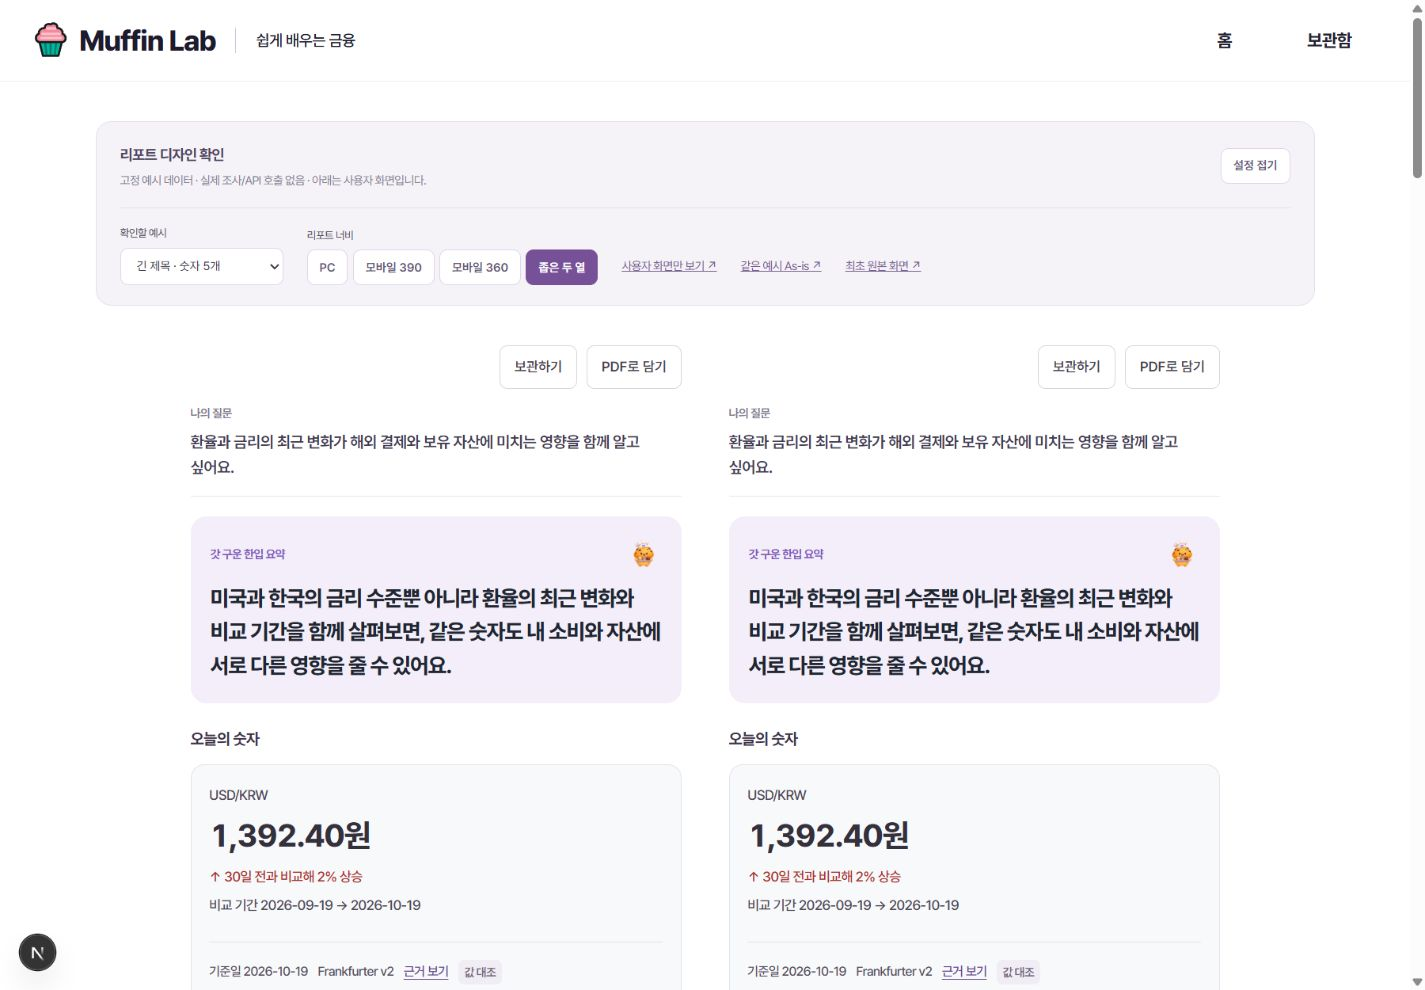
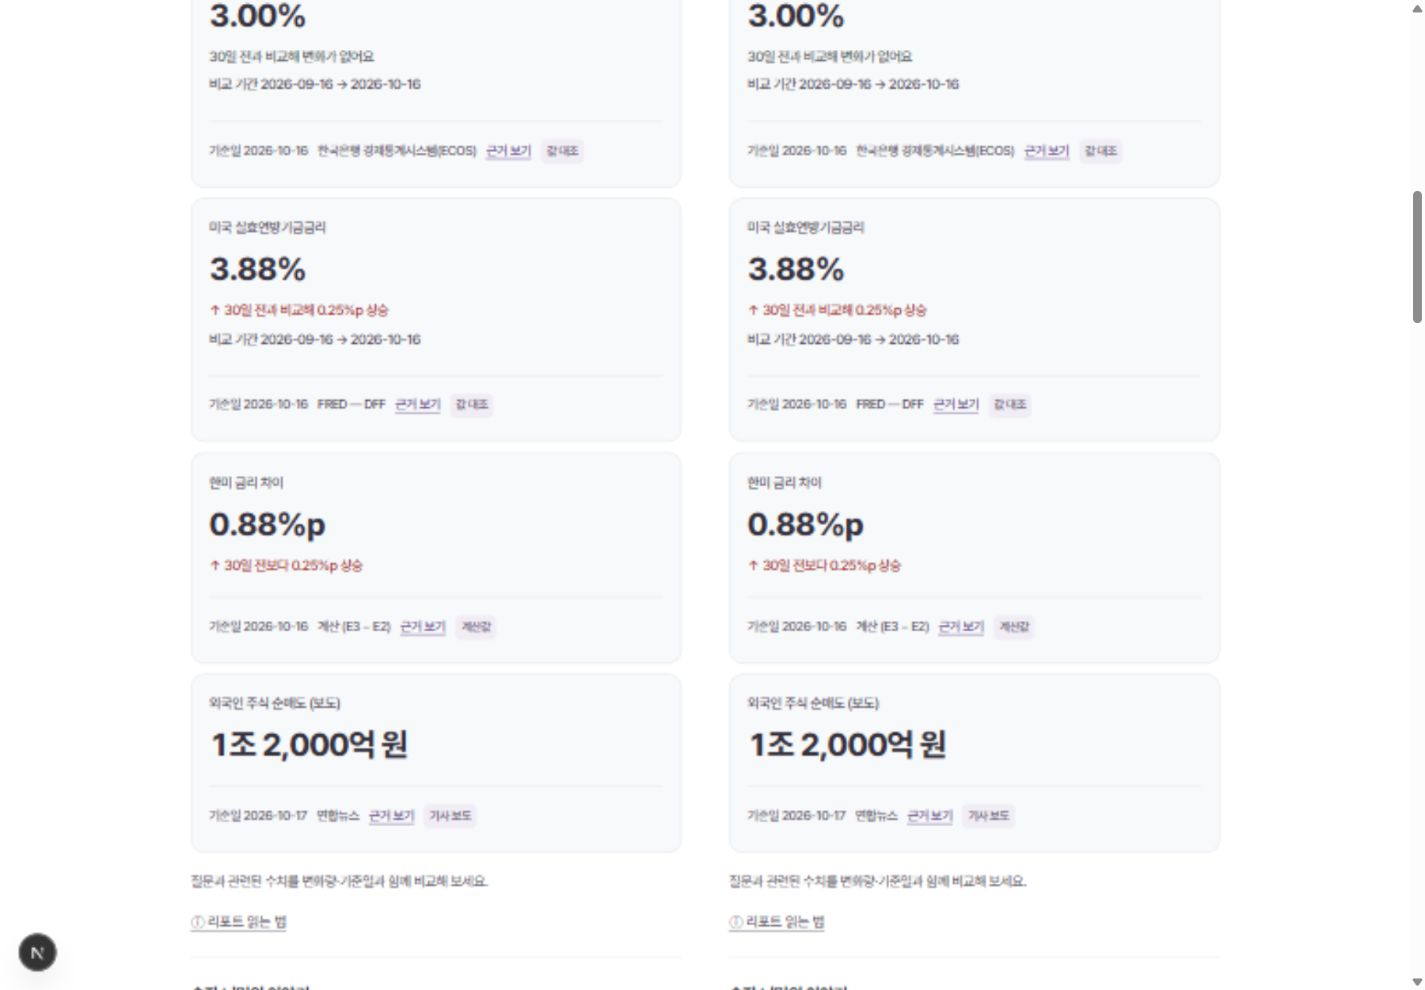
fix: 리포트 머리말 복원 및 모바일 보조 영역 접기

diff --git a/app/components/ReportView.module.css b/app/components/ReportView.module.css
@@ -545,3 +545,39 @@
   .report .topicLink { flex-wrap:wrap; }
   .report :global(.topic-action) { width:100%; margin-top:12px; }
 }
+
+/* Brand and supporting content: compact surfaces, responsive disclosure. */
+.report :global(.report-brand-header) { display:flex; align-items:center; justify-content:space-between; flex-wrap:wrap; gap:16px; margin-bottom:24px; }
+.report :global(.report-brand-header) p { margin:0 0 4px; font-size:13px; color:#705886; }
+.report :global(.report-brand-header) h1 { margin:0; font-size:26px; line-height:1.2; color:#3f2c55; }
+.report :global(.report-brand-header .report-actions) { margin:0; }
+.report section.hero { grid-template-columns:minmax(0,1fr) 200px; }
+.report .heroArt { width:200px; height:180px; }
+.report :global(.metrics-heading) h2 { font-size:19px; }
+.report :global(.source-chips) { margin:10px 0 14px; padding:0; border:0; gap:6px; }
+.report :global(.source-chips) button { padding:6px 14px; min-height:40px; }
+.report :global(.source-panel-heading) { margin-bottom:10px; }
+.report :global(.source-data-grid) { gap:12px; }
+.report :global(.source-data-item) { padding:16px; border:1px solid #e1e4e9; border-radius:12px; background:#f8f9fb; }
+.report :global(.source-number) { margin-bottom:8px; gap:4px; }
+.report :global(.evidence-record) { margin:0; padding:0; }
+.report :global(.evidence-values) { margin:8px 0 0; }
+.report :global(.evidence-values) > div { background:transparent; }
+.report :global(.report-verification:not(.report-reference)) { padding:0 18px; background:#f1f3f6; border:1px solid #e0e4e9; border-radius:14px; margin:16px 0; }
+.report :global(.responsive-details > summary) { list-style:none; cursor:default; }
+.report :global(.responsive-details > summary::-webkit-details-marker) { display:none; }
+.report :global(.responsive-details > summary) h2 { margin:0; font-size:19px; }
+.report :global(.responsive-details .verification-summary-action) { display:none; }
+@container report (max-width:560px) {
+  .report :global(.report-brand-header) { align-items:flex-start; }
+  .report :global(.report-brand-header .report-actions) { width:100%; }
+  .report .heroArt { width:160px; height:144px; }
+  .report .headlinePlaceholder { font-size:20px; }
+  .report :global(.metrics-heading) h2, .report :global(.responsive-details > summary) h2 { font-size:17px; }
+}
+@media (max-width:600px) {
+  .report :global(.responsive-details > summary) { cursor:pointer; display:flex; align-items:center; justify-content:space-between; gap:10px; }
+  .report :global(.responsive-details > summary)::after { content:"⌄"; font-size:20px; }
+  .report :global(.responsive-details[open] > summary)::after { transform:rotate(180deg); }
+  .report :global(.responsive-details.report-fold) { padding:0; }
+}

diff --git a/app/components/ReportView.tsx b/app/components/ReportView.tsx
@@ -1,3 +1,4 @@
+import { ReportResponsiveDetails } from "./ReportResponsiveDetails";
 /// <reference types="next/image-types/global" />
 import { supportedReportTopics } from "@/src/lib/report-topics";
 import type { ReactNode } from "react";
@@ -62,7 +63,7 @@ export function ReportView({
     <ReportEvidenceScope>
     <ReportDisplay className={`report ${styles.report}`}>
       {report.notice && report.mode !== "research" && <p className="report-notice">{report.notice}</p>}
-      {actions && <div className="report-actions">{actions}</div>}
+      <header className="report-brand-header"><div><p>갓 구운 오늘의 리포트</p><h1>Today&apos;s Muffin</h1></div>{actions && <div className="report-actions">{actions}</div>}</header>
       {question && (
         <section className={styles.questionCard} aria-label="나의 질문">
           <h2>나의 질문</h2>
@@ -76,7 +77,7 @@ export function ReportView({
           {!headline && <p className={styles.summaryBody}>{report.summary}</p>}
         </div>
         <div className={styles.heroArt} aria-hidden="true">
-          <Image src={resultMuffin} alt="" fill sizes="(max-width: 560px) 160px, 120px" />
+          <Image src={resultMuffin} alt="" fill sizes="(max-width: 560px) 160px, 200px" />
         </div>
       </section>
 
@@ -129,7 +130,7 @@ export function ReportView({
                 ))}
               </ul>
             )}
-            <p className="section-guide">지금의 수치가 나온 배경을 읽고, 설명 옆 배지로 근거의 종류를 확인해 보세요.</p>
+
           </section>
       {headline && <p className={styles.summaryBody}>{report.summary}</p>}
 
@@ -154,10 +155,10 @@ export function ReportView({
       <ReportSources report={report} />
 
       {nextTopics.length > 0 && <section className={styles.nextTopics}>
-        <details className="report-fold" open><summary>이어서 알아볼까요?</summary>
+        <ReportResponsiveDetails className="report-fold" summary={<h2>이어서 알아볼까요?</h2>}>
         <div className={styles.topicGrid}>{nextTopics.map((topic, i) => <Link key={i} href={`/?question=${encodeURIComponent(topic.question)}&area=${topic.area}`} className={styles.topicLink}><span><strong>{topic.question}</strong><small>{topic.reason}</small></span><span className="topic-action"><em>머핀랩과 더 알아보기</em><span aria-hidden="true">→</span></span></Link>)}</div>
         <p className="section-guide">머핀랩이 추천하는 연관 지식이에요. 주제를 고르면 질문이 채워져요.</p>
-        </details>
+        </ReportResponsiveDetails>
       </section>}
 
       {header && <div className="report-bottom-controls">{header}</div>}

diff --git a/app/components/ReportEvidence.tsx b/app/components/ReportEvidence.tsx
@@ -1,5 +1,6 @@
 "use client";
 
+import { ReportResponsiveDetails } from "./ReportResponsiveDetails";
 import { useSyncExternalStore, type ReactNode } from "react";
 import type { Evidence, Report } from "@/src/agent/schema";
 import { ReportEvidenceLink, ReportSectionLink, useEvidenceTarget } from "./ReportEvidenceScope";
@@ -268,11 +269,10 @@ export function ReportVerification({ report, children }: { report: Report; child
   const labels = { skipped: "검사 미실행", partial: "일부 확인 필요", pass: "검사 통과" };
   return (
     <section className="report-verification" aria-label="리포트 검증 상태">
-      <details className="verification-toggle" aria-label="리포트 상세 정보">
-        <summary>
+      <ReportResponsiveDetails className="verification-toggle" label="리포트 상세 정보" summary={<>
           <span className="verification-summary-copy"><strong><span className="verification-icon" aria-hidden="true">✓</span> 검증이 한 일<span className={`report-badge status-${verification.status}`}>{labels[verification.status]}</span></strong><span>{skipped ? "검사를 실행하지 않은 리포트예요" : `숫자 대조 · 근거 분류 · 권유 표현 검사`}</span></span>
           <span className="verification-summary-action"><span className="verification-toggle-label">리포트 상세 정보</span><span className="verification-chevron" aria-hidden="true">⌄</span></span>
-        </summary>
+        </>}>
         <div className="verification-body">
       {skipped ? (
         <p>이 리포트는 검증기를 거치지 않았습니다. 숫자와 원인 설명을 출처에서 직접 확인해 주세요.</p>
@@ -286,7 +286,7 @@ export function ReportVerification({ report, children }: { report: Report; child
       )}
           {children}
         </div>
-      </details>
+      </ReportResponsiveDetails>
     </section>
   );
 }

diff --git a/app/components/ReportResponsiveDetails.tsx b/app/components/ReportResponsiveDetails.tsx
@@ -1,0 +1,34 @@
+"use client";
+import { useEffect, useRef, type ReactNode } from "react";
+
+/** Only phone viewports collapse supporting content; narrow desktop columns stay expanded. */
+export function ReportResponsiveDetails({ summary, children, className = "", label }: { summary: ReactNode; children: ReactNode; className?: string; label?: string }) {
+  const ref = useRef<HTMLDetailsElement>(null);
+  useEffect(() => {
+    const media = window.matchMedia("(max-width: 600px)");
+    const sync = () => {
+      if (!ref.current) return;
+      let linkedTarget: HTMLElement | null = null;
+      try { linkedTarget = document.getElementById(decodeURIComponent(window.location.hash.slice(1))); } catch { /* Ignore malformed hashes. */ }
+      ref.current.open = !media.matches || (linkedTarget !== null && ref.current.contains(linkedTarget));
+      const heading = ref.current.querySelector("summary");
+      if (heading) heading.tabIndex = media.matches ? 0 : -1;
+    };
+    sync();
+    media.addEventListener("change", sync);
+    let beforePrintOpen = true;
+    const beforePrint = () => { if (ref.current) { beforePrintOpen = ref.current.open; ref.current.open = true; } };
+    const afterPrint = () => { if (ref.current) ref.current.open = beforePrintOpen; };
+    window.addEventListener("beforeprint", beforePrint);
+    window.addEventListener("afterprint", afterPrint);
+    return () => {
+      media.removeEventListener("change", sync);
+      window.removeEventListener("beforeprint", beforePrint);
+      window.removeEventListener("afterprint", afterPrint);
+    };
+  }, []);
+  return <details ref={ref} open className={`responsive-details ${className}`} aria-label={label}>
+    <summary onClick={event => { if (!window.matchMedia("(max-width: 600px)").matches) event.preventDefault(); }}>{summary}</summary>
+    {children}
+  </details>;
+}

diff --git a/app/components/ReportSources.tsx b/app/components/ReportSources.tsx
@@ -1,5 +1,6 @@
 "use client";
 
+import { ReportResponsiveDetails } from "./ReportResponsiveDetails";
 import { evidenceCategory } from "./reportCategory";
 import { reportChange } from "./reportChange";
 import type { Report } from "@/src/agent/schema";
@@ -15,7 +16,7 @@ export function ReportSources({ report }: { report: Report }) {
   if (extraSources.length > 0) groups.push("참고 문서");
   const active = scope?.selection && groups.includes(scope.selection) ? scope.selection : groups[0];
   return <section className="source-library" aria-label="정확한 데이터로 보는 금융" id={rootId ?? undefined} tabIndex={-1}>
-    <h2>출처와 원본 데이터</h2>
+    <ReportResponsiveDetails className="report-fold" summary={<h2>출처와 원본 데이터</h2>}>
 
     {groups.length > 1 && <div className="source-chips" role="group" aria-label="자료 주제 선택">
       {groups.map(group => <button type="button" key={group} aria-pressed={active === group} onClick={() => scope?.select(group)}>{group}</button>)}
@@ -32,5 +33,6 @@ export function ReportSources({ report }: { report: Report }) {
     </div>)}
     <p className="section-guide">{groups.length > 1 ? "주제를 고른 뒤, 리포트에 쓰인 수치의 출처와 기준일을 확인해 보세요." : "리포트에 쓰인 수치의 출처와 기준일을 확인해 보세요."} 비교에 사용한 자료도 아래에서 함께 볼 수 있어요.</p>
 
+    </ReportResponsiveDetails>
   </section>;
 }

diff --git a/app/report/[id]/page.tsx b/app/report/[id]/page.tsx
@@ -50,7 +50,6 @@ export default function ReportPage() {
   return (
     <>
       <ReportView actions={<ReportActions key={record.id} report={record.report} input={input} steps={record.steps} savedId={record.id} />} report={record.report} steps={record.steps} area={input.area} question={input.question} createdAt={record.createdAt} header={<div className="report-head">
-        <strong>Today&apos;s Muffin</strong>
         <div className="chips">
           {input.area && <span className="category-chip" data-category={input.area === "news" ? "뉴스" : areaLabels[input.area]}>{areaLabels[input.area]}</span>}
           <span className="depth-chip" data-depth={input.depth}>{depthLabels[input.depth]}</span>

diff --git a/docs/pr/report-answer-first/README.md b/docs/pr/report-answer-first/README.md
@@ -24,9 +24,9 @@
 | 요약 연보라 영역 복원 | 요약 연보라 배경. 모바일 머핀은 문장 아래 중앙에 160×144px 영역으로 크게 배치 |
 | 숫자 영역 구분 | 숫자마다 옅은 회색 배경·중립색 테두리. PC 금리 3열 / 모바일 1열 |
 | 읽는 법 위치 | PC 숫자 제목 오른쪽 / 560px 이하 숫자 묶음 하단. 열기·닫기 확인 |
-| 검증 표시 기본 ON | 표시 전환 버튼 삭제. 검증 상세는 하단 접힘 |
+| 검증 표시 기본 ON | 표시 전환 버튼 삭제. 검증 상세는 하단에 두고 폰에서만 기본 접힘 |
 | 안내·검증·주의점·생성일 | 안내는 각 영역 끝. 검증 → 주의점 → 생성일(한국 시간) → AI 고지 |
-| 출처·추천 | 출처 토글 삭제, 항상 표시. 추천은 기본 펼침 |
+| 출처·추천 | PC는 출처·추천·검증을 항상 펼쳐 표시. 화면 600px 이하에서만 기본 접힘 |
 | 출처 카드 정리 | 연보라 배경·테두리 제거. E/C 근거 번호는 숫자 제목 옆, 배지 박스 제거 |
 | 가독성 | 본문 16px / 안내 14px / 숫자 메타 13px, 대비·굵기 강화 |
 | 좁은 칸·모바일 | 실제 뷰포트 360·390px와 넓은 뷰포트 내 496px 두 열에서 넘침 없음 |
@@ -48,3 +48,7 @@
 ## 카드 색감 복원
 
 생활 영향·추천·차트 요약은 개별 카드에만 옅은 보라 배경과 테두리를 복원했습니다. 바깥 섹션과 안내에는 배경 상자를 추가하지 않아 3중 색칠을 피합니다. [모바일 생활 영향](tobe-impact-mobile.jpg). PC·390px 금리 캡처는 이 변경으로 갱신했으며 외화·두 열 캡처는 직전 QA 기록입니다.
+
+## 반응형 표시 후속 QA
+
+Today's Muffin·갓 구운 오늘의 리포트 복원, PC 머핀 200×180px 확대, 오늘의 숫자 제목 크기 통일, 원인 중복 안내 제거. 출처 주제 버튼 여백 축소 및 개별 회색 카드 경계 적용, 검증 영역 회색 배경 복원. 390px에서 세 영역 기본 접힘과 근거 링크 자동 펼침 확인. 1440px 브라우저 안 496px 두 열은 펼침 유지, 제목 20px·그림 하단 배치 확인. 인쇄 시 접힌 보조 영역도 펼치고 종료 후 원래 상태로 복구합니다.

diff --git a/docs/pr/report-answer-first/PR.md b/docs/pr/report-answer-first/PR.md
@@ -2,11 +2,13 @@
 
 리포트 첫 화면에서 안내·검증 때문에 답과 숫자가 밀리던 구조를 질문 → 한 문장 답 → 핵심 숫자·변화 → 기준일·출처로 정리했습니다. 요약은 연보라 영역, 숫자는 옅은 회색 카드로 구분하고 본문·출처의 글씨 크기와 대비를 높였습니다. 모바일에서는 머핀을 요약 문장 아래 중앙에 크게 배치하고 읽는 법을 숫자 묶음 아래로 배치합니다.
 
-출처는 항상 표시하고 추천은 기본 펼침, 검증·주의점은 하단 접힘으로 둡니다. 원인 주장과 근거 수치는 숫자 다음에 표시합니다. 보관·PDF 버튼의 기존 보라색 스타일을 복원하고, 후속 추천은 지원 도구로 조회 가능한 질문 목록에서 골라 해당 관심 영역으로 연결합니다.
+PC에서는 출처·추천·검증을 본문으로 펼쳐 표시하고, 폰(화면 600px 이하)에서는 기본 접힘으로 둡니다. 주의점은 하단 토글로 유지합니다. 원인 주장과 근거 수치는 숫자 다음에 표시합니다. 보관·PDF 버튼의 기존 보라색 스타일을 복원하고, 후속 추천은 지원 도구로 조회 가능한 질문 목록에서 골라 해당 관심 영역으로 연결합니다.
 
 작성 규칙은 Easy 비교 질문만 숫자 최대 3개를 허용하고 Deep 최소 4개는 유지합니다. 비교 입력값, CPI 전월/전년 라벨, 외화 구매·매도 관점을 보강하고 물가 기여도 근사치 설명을 정리했습니다. `depth.ts` 및 `cpi.ts` 변경은 담당자 검토가 필요합니다. 스키마·Agent 이름은 변경하지 않았습니다.
 
 생활 영향·추천·차트 요약은 개별 카드에 옅은 배경과 테두리를 살리고, 바깥 섹션·안내에는 배경을 더하지 않아 3중 중첩 색칠을 피했습니다.
+
+머리말 Today's Muffin·갓 구운 오늘의 리포트를 복원하고 PC 머핀을 키웠습니다. 제목 크기를 통일하고 출처 주제 버튼·카드 여백을 줄였으며 검증의 회색 배경을 복원했습니다. 레이아웃은 칸 너비 560px 기준(제목 20px·그림 하단), 접힘은 화면 너비 600px 기준으로 분리했습니다.
 
 ## 왜
 
